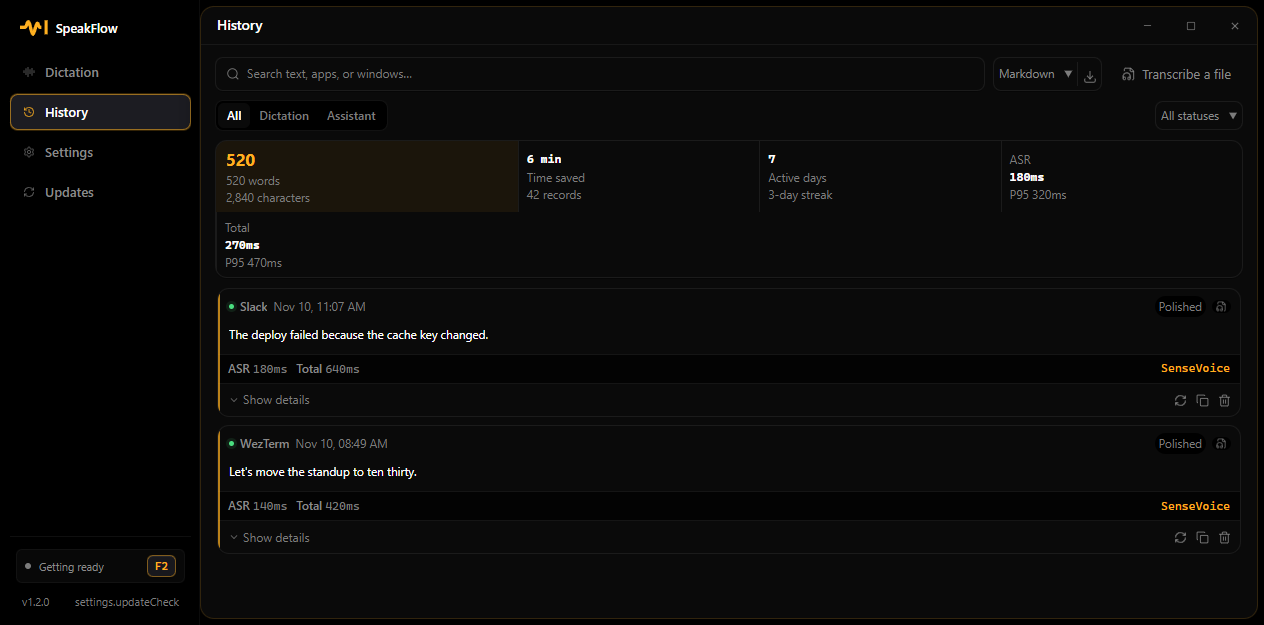
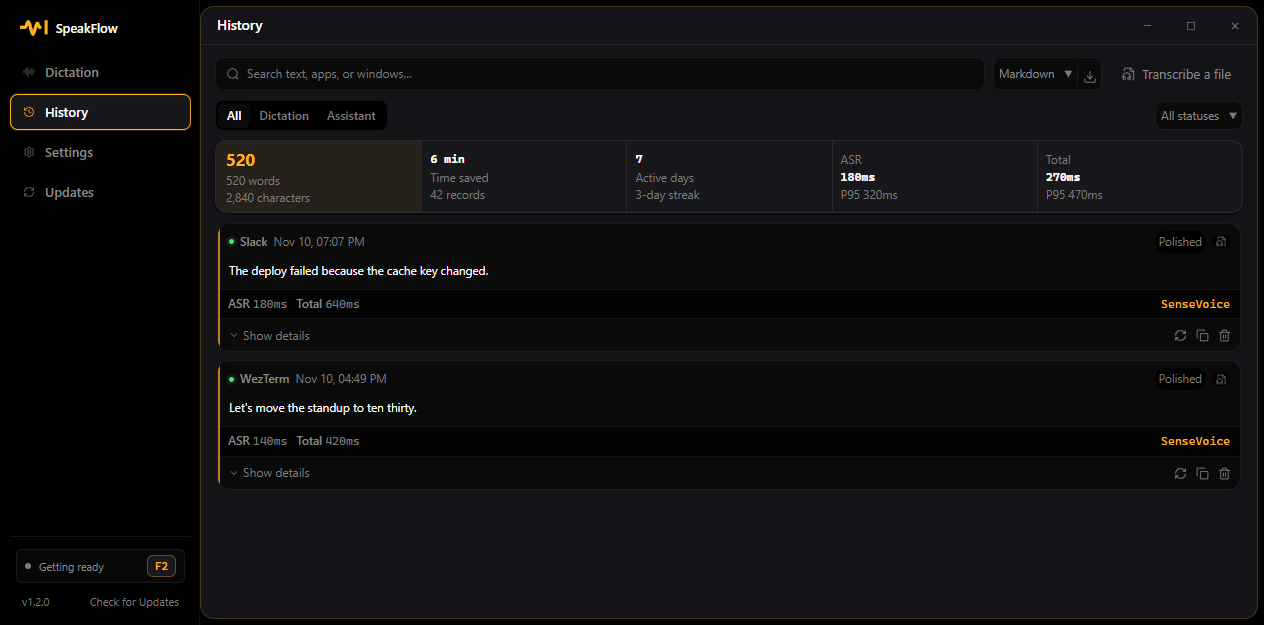
style(ui): refine card surfaces, metrics grid, and wave status spacing

diff --git a/src/styles/signal.css b/src/styles/signal.css
@@ -152,6 +152,7 @@ h2.signal-label { margin: 0; }
   display: flex;
   align-items: center;
   gap: 8px;
+  flex: 1;
   min-width: 0;
   overflow: hidden;
 }
@@ -223,8 +224,14 @@ h2.signal-label { margin: 0; }
 .transcript-panel {
   display: flex;
   flex-direction: column;
-  min-height: 0;
+  flex: 1;
+  min-height: 180px;
   min-width: 0;
+  border-radius: 12px;
+  border: 1px solid var(--color-hairline);
+  background: var(--color-surface-card);
+  box-shadow: var(--shadow-sm);
+  overflow: hidden;
 }
 
 .transcript-head {
@@ -250,9 +257,10 @@ h2.signal-label { margin: 0; }
   gap: 6px;
 }
 .signal-select select {
-  height: 20px;
-  padding: 0 18px 0 6px;
+  height: 22px;
+  padding: 0 18px 0 8px;
   border: 1px solid var(--color-border);
+  border-radius: 6px;
   background: var(--color-bg-primary);
   color: var(--color-text-primary);
   font-size: 10.5px;
@@ -288,9 +296,13 @@ h2.signal-label { margin: 0; }
 .rundown-panel {
   display: flex;
   flex-direction: column;
-  min-height: 0;
-  background: var(--color-bg-secondary);
-  border-top: 1px solid var(--color-border);
+  flex-shrink: 0;
+  min-height: 112px;
+  border-radius: 12px;
+  border: 1px solid var(--color-hairline);
+  background: var(--color-surface-card);
+  box-shadow: var(--shadow-sm);
+  overflow: hidden;
 }
 
 .rundown-head {
@@ -702,14 +714,15 @@ h2.signal-label { margin: 0; }
   display: flex;
   align-items: center;
   gap: 6px;
+  flex-shrink: 0;
   min-width: 0;
 }
 .chip {
   display: inline-flex;
   align-items: center;
   gap: 5px;
-  height: 18px;
-  padding: 0 6px;
+  height: 20px;
+  padding: 0 8px;
   border: 1px solid var(--color-border);
   background: none;
   color: var(--color-text-secondary);
@@ -719,7 +732,7 @@ h2.signal-label { margin: 0; }
   letter-spacing: 0.15em;
   text-transform: uppercase;
   white-space: nowrap;
-  border-radius: 0;
+  border-radius: 999px;
 }
 .chip[data-state="ready"] {
   border-color: var(--color-border-accent);
@@ -1234,6 +1247,9 @@ h2.signal-label { margin: 0; }
 
 .settings-card {
   position: relative;
+  display: flex;
+  flex-direction: column;
+  gap: 12px;
   padding: 18px 20px 22px;
   border: 1px solid var(--color-hairline);
   border-radius: 12px;
@@ -1254,7 +1270,7 @@ h2.signal-label { margin: 0; }
   display: flex;
   align-items: center;
   gap: 8px;
-  margin-bottom: 14px;
+  margin-bottom: 0;
   padding-bottom: 10px;
   border-bottom: 1px solid var(--color-hairline);
 }
@@ -1319,10 +1335,10 @@ h2.signal-label { margin: 0; }
 .settings-card input[type="password"],
 .settings-card select,
 .settings-card textarea {
-  height: 24px;
+  height: 26px;
   padding: 0 8px;
   border: 1px solid var(--color-border);
-  border-radius: 0;
+  border-radius: 8px;
   background: var(--color-bg-primary);
   color: var(--color-text-primary);
   font-size: 11px;
@@ -1343,9 +1359,9 @@ h2.signal-label { margin: 0; }
   flex-direction: column;
   align-items: flex-start;
   gap: 3px;
-  padding: 8px 10px;
+  padding: 10px 12px;
   border: 1px solid var(--color-border);
-  border-radius: 0;
+  border-radius: 8px;
   background: none;
   color: var(--color-text-secondary);
   text-align: left;
@@ -1373,10 +1389,10 @@ h2.signal-label { margin: 0; }
   align-items: center;
   gap: 8px;
   width: 100%;
-  min-height: 30px;
+  min-height: 34px;
   padding: 0 10px;
   border: 1px solid var(--color-border);
-  border-radius: 0;
+  border-radius: 8px;
   background: var(--color-bg-primary);
   color: var(--color-text-primary);
   text-align: left;

diff --git a/src/styles/pages.css b/src/styles/pages.css
@@ -522,13 +522,13 @@
 
 .history-metrics {
   display: grid;
-  grid-template-columns: 1.25fr repeat(3, 1fr);
+  grid-template-columns: repeat(auto-fit, minmax(120px, 1fr));
   overflow: hidden;
   margin-bottom: 9px;
-  border: 1px solid var(--color-border-subtle);
-  border-radius: var(--radius-md);
-  background: var(--color-bg-elevated);
-  box-shadow: var(--shadow-xs);
+  border: 1px solid var(--color-hairline);
+  border-radius: 12px;
+  background: var(--color-surface-card);
+  box-shadow: var(--shadow-sm);
   flex-shrink: 0;
 }
 
